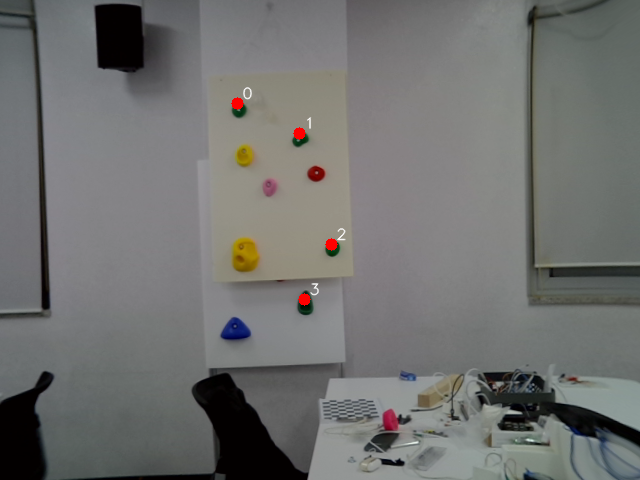
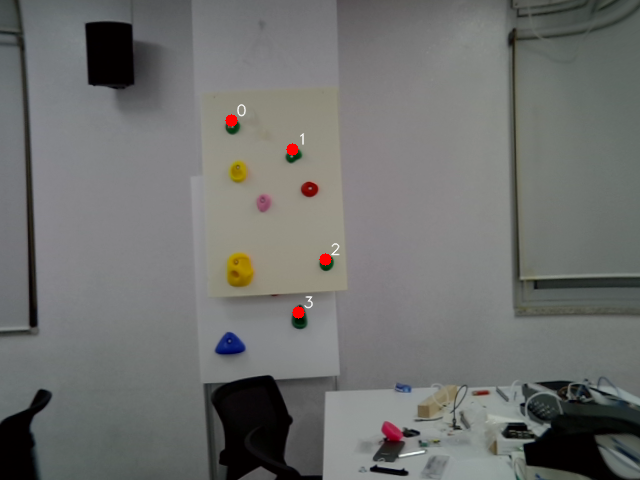
add 1001_log1.txt

diff --git a/JSH_Climbing.py b/JSH_Climbing.py
@@ -41,8 +41,8 @@ except Exception:
 NPZ_PATH       = r"/home/jsh/Desktop/JSH_CODE/jsh_code/stereo_params_scaled.npz"
 MODEL_PATH     = r"/home/jsh/Desktop/JSH_CODE/jsh_code/best_5.pt"
 
-CAM1_INDEX     = 0   # 왼쪽 카메라
-CAM2_INDEX     = 1   # 오른쪽 카메라
+CAM1_INDEX     = 1   # 왼쪽 카메라
+CAM2_INDEX     = 0   # 오른쪽 카메라
 
 SWAP_INPUT     = False   # 입력 좌/우 스왑
 SWAP_DISPLAY   = False   # 화면 표시 좌/우 스왑
